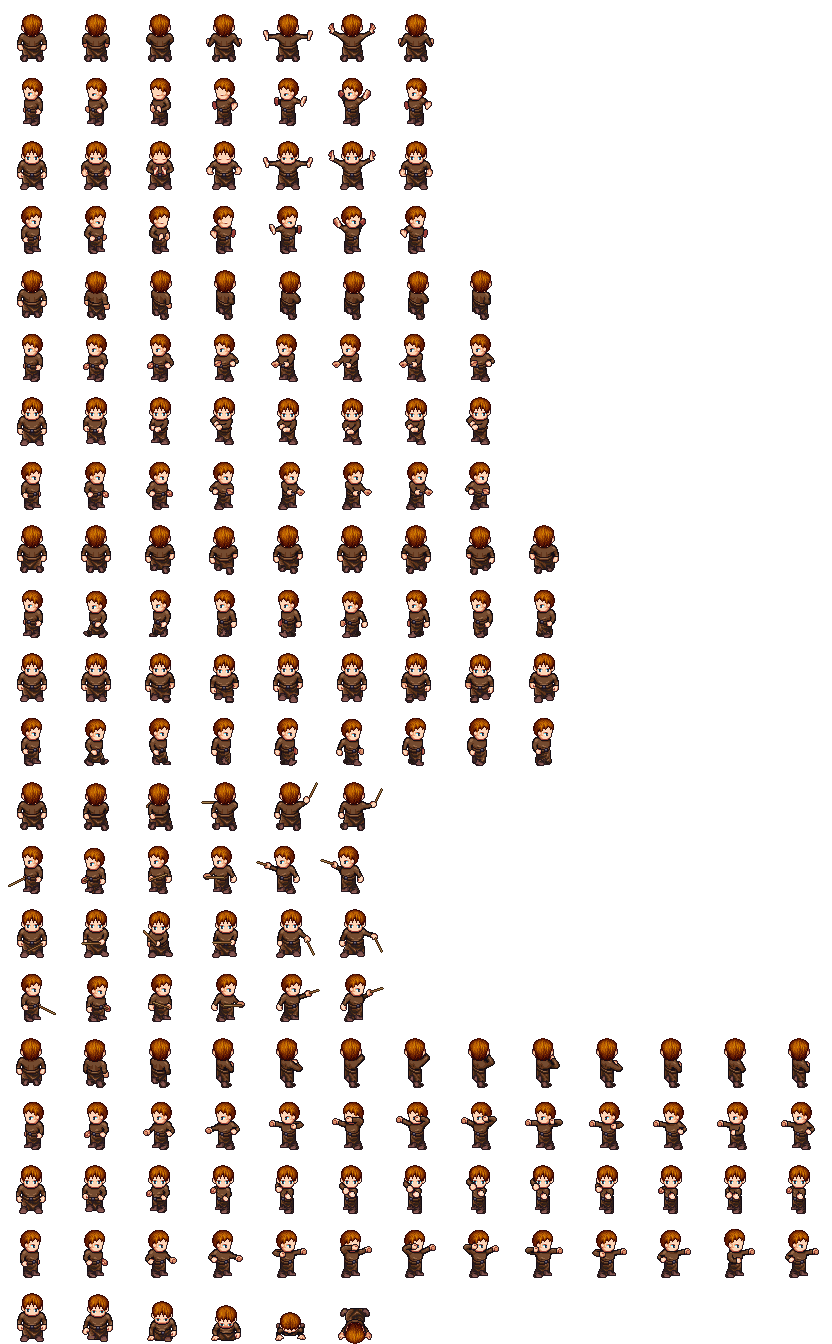
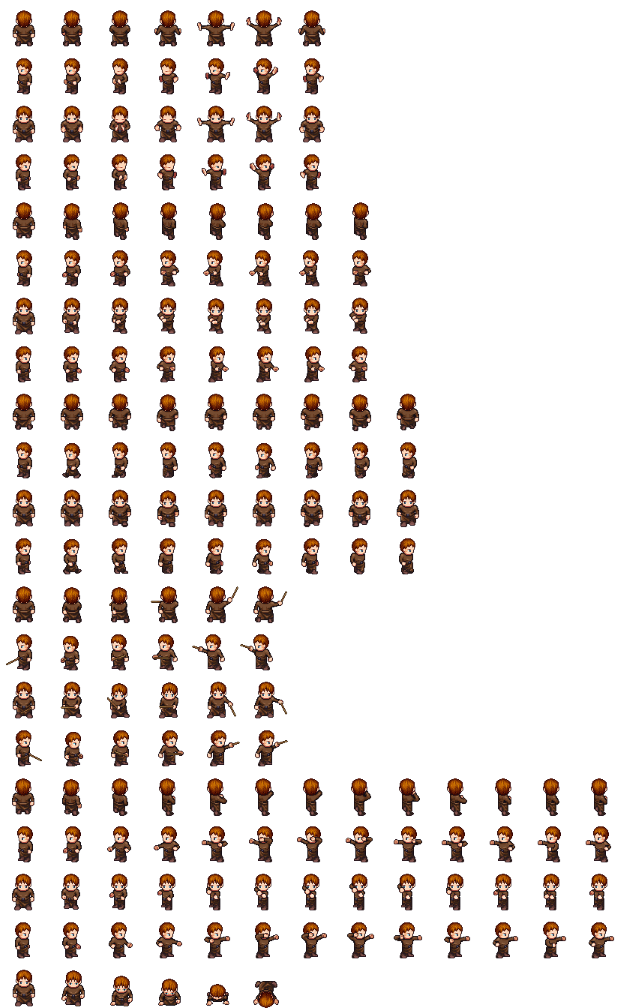
Resized heroes, raised hero health bars

diff --git a/GOTY 2K17/src/game/units/LivingUnit.java b/GOTY 2K17/src/game/units/LivingUnit.java
@@ -8,6 +8,7 @@ import java.util.List;
 
 import game.Tile;
 import game.TileWorld;
+import game.units.heroes.Hero;
 import game.units.status.StatusEffects;
 import game.vectors.Vector2f;
 
@@ -128,11 +129,14 @@ public abstract class LivingUnit extends Unit {
 		g.setStroke(new BasicStroke(2));
 		g.setColor(Color.RED);
 		double width = 35;
-		g.drawLine((int)adjustedLoc.x - 15, (int) adjustedLoc.y - 10, (int) adjustedLoc.x - 15 + (int) width, (int) adjustedLoc.y - 10);
+		if (this instanceof Hero) g.drawLine((int)adjustedLoc.x - 15, (int) adjustedLoc.y - 18, (int) adjustedLoc.x - 15 + (int) width, (int) adjustedLoc.y - 18);
+		else g.drawLine((int)adjustedLoc.x - 15, (int) adjustedLoc.y - 10, (int) adjustedLoc.x - 15 + (int) width, (int) adjustedLoc.y - 10);
+
 		width *= (double) getHealth() / (double) getMaxHealth();
 		if (width > 0) {
 			g.setColor(Color.GREEN);
-			g.drawLine((int)adjustedLoc.x - 15, (int) adjustedLoc.y - 10, (int) adjustedLoc.x - 15 + (int) width, (int) adjustedLoc.y - 10);
+			if (this instanceof Hero) g.drawLine((int)adjustedLoc.x - 15, (int) adjustedLoc.y - 18, (int) adjustedLoc.x - 15 + (int) width, (int) adjustedLoc.y - 18);
+			else g.drawLine((int)adjustedLoc.x - 15, (int) adjustedLoc.y - 10, (int) adjustedLoc.x - 15 + (int) width, (int) adjustedLoc.y - 10);
 		}
 	}
 	

diff --git a/GOTY 2K17/src/game/units/heroes/Hero.java b/GOTY 2K17/src/game/units/heroes/Hero.java
@@ -47,7 +47,6 @@ public abstract class Hero extends LivingUnit {
 	@Override
 	public void update(float delta) {
 		super.update(delta);
-		
 		if (getTask() != null) {
 			boolean taskComplete = getTask().contributeTask(this, delta);
 			if (taskComplete) {
@@ -126,13 +125,13 @@ public abstract class Hero extends LivingUnit {
 		//Add stabbing animations
 		for(int i = 4; i < 8 ; i ++){
 			for(int j = 0; j < 9; j++){
-				animations[i-4][j] = (this.getSpriteSheet().getSubimage(j * 64, i * 64, 64, 64));
+				animations[i-4][j] = (this.getSpriteSheet().getSubimage(j * 48, i * 48, 48, 48));
 			}
 		}
 		//Add walking animations
 		for(int i = 8; i < 12 ; i++){
 			for(int j = 0; j < 8; j++){
-				animations[i-4][j] = (this.getSpriteSheet().getSubimage(j * 64, i * 64, 64, 64));
+				animations[i-4][j] = (this.getSpriteSheet().getSubimage(j * 48, i * 48, 48, 48));
 			}
 		}
 	}

diff --git a/GOTY 2K17/src/game/TileFramework.java b/GOTY 2K17/src/game/TileFramework.java
@@ -11,6 +11,7 @@ import java.util.Set;
 import game.maps.Map2;
 import game.sprites.BoundingSprite;
 import game.units.Unit;
+import game.units.heroes.Hero;
 import game.units.monsters.Boss;
 import game.util.Direction;
 import game.util.Matrix3x3f;
